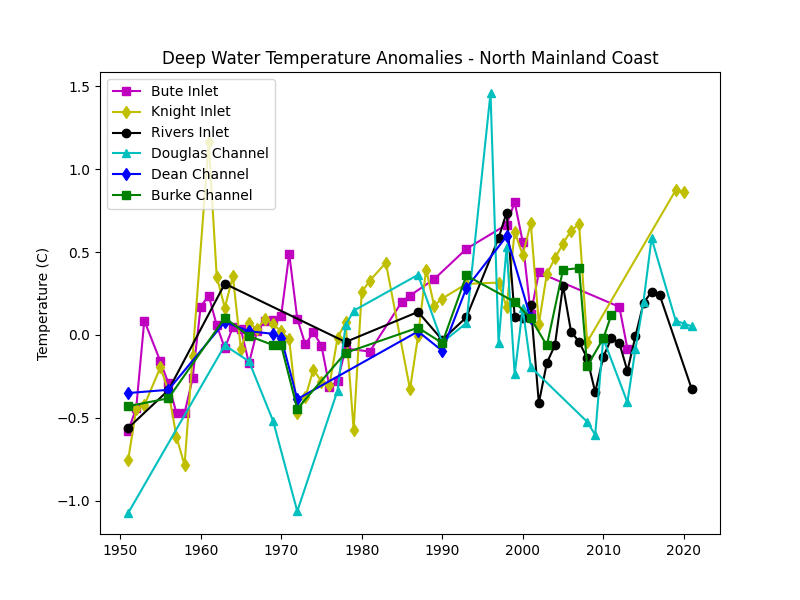
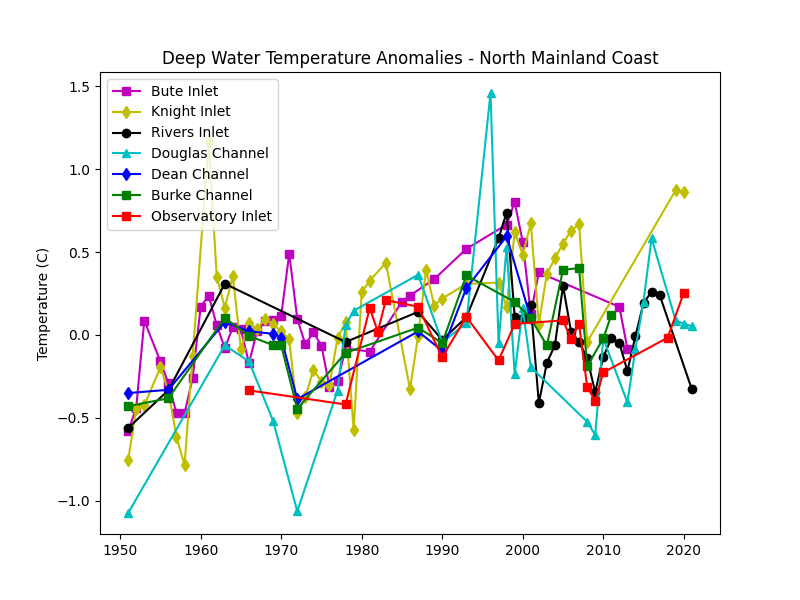
add Observatory Inlet

diff --git a/get-maps.py b/get-maps.py
@@ -28,6 +28,7 @@ maps = [
     Inlet(boundaries=[-125.0, 50.3, -124.1, 50.4], dimensions="500x400", name="Toba Inlet"),
     Inlet(boundaries=[-125.3, 50.2, -124.6, 51.0], dimensions="500x700", name="Bute Inlet"),
     Inlet(boundaries=[-127.9, 51.8, -127.2, 52.4], dimensions="600x600", name="Burke Channel"),
+    Inlet(boundaries=[-130.2, 54.8, -129.7, 55.4], dimensions="500x700", name="Observatory Inlet"),
 ]
 
 mapbox_url = "https://api.mapbox.com/styles/v1/cyborgsphinx/{}/static/{}/{}"
